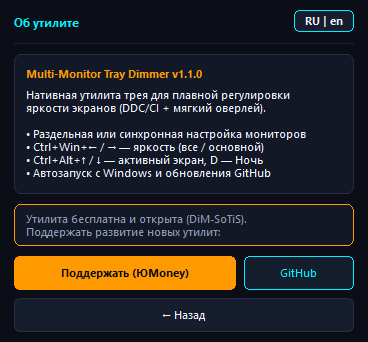
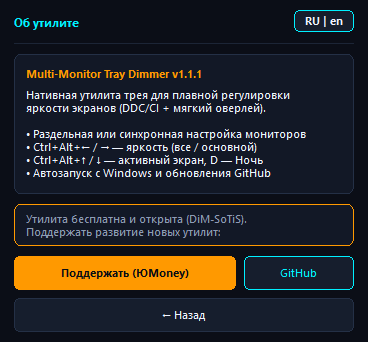
fix: switch sync/primary arrow hotkeys to Ctrl+Alt+Left/Right (v1.1.1)

Changed region(s): [[0.1495, 0.4094, 0.7174, 0.4678], [0.5082, 0.2047, 0.5679, 0.2339]]

diff --git a/src/i18n.rs b/src/i18n.rs
@@ -221,9 +221,9 @@ pub fn all_monitors_card_label(lang: Lang, count: usize) -> String {
 
 pub fn toast_sync(lang: Lang, enabled: bool) -> (&'static str, &'static str) {
     match (lang, enabled) {
-        (Lang::Ru, true) => ("Синхронизация", "Включена: общий ползунок и Ctrl+Win+←/→"),
+        (Lang::Ru, true) => ("Синхронизация", "Включена: общий ползунок и Ctrl+Alt+←/→"),
         (Lang::Ru, false) => ("Синхронизация", "Отключена: каждый монитор отдельно"),
-        (Lang::En, true) => ("Sync", "Enabled: unified slider & Ctrl+Win+←/→"),
+        (Lang::En, true) => ("Sync", "Enabled: unified slider & Ctrl+Alt+←/→"),
         (Lang::En, false) => ("Sync", "Disabled: per-monitor control"),
     }
 }
@@ -266,7 +266,7 @@ pub fn about_features(lang: Lang) -> &'static str {
             "Нативная утилита трея для плавной регулировки\n",
             "яркости экранов (DDC/CI + мягкий оверлей).\n\n",
             "• Раздельная или синхронная настройка мониторов\n",
-            "• Ctrl+Win+← / → — яркость (все / основной)\n",
+            "• Ctrl+Alt+← / → — яркость (все / основной)\n",
             "• Ctrl+Alt+↑ / ↓ — активный экран, D — Ночь\n",
             "• Автозапуск с Windows и обновления GitHub"
         ),
@@ -274,7 +274,7 @@ pub fn about_features(lang: Lang) -> &'static str {
             "Lightweight native tray utility for smooth\n",
             "multi-monitor dimming (DDC/CI + soft overlay).\n\n",
             "• Per-display or synced brightness control\n",
-            "• Ctrl+Win+← / → — brightness (all / primary)\n",
+            "• Ctrl+Alt+← / → — brightness (all / primary)\n",
             "• Ctrl+Alt+↑ / ↓ — active screen, D — Night\n",
             "• Windows autostart & GitHub auto-updates"
         ),

diff --git a/src/tray.rs b/src/tray.rs
@@ -56,7 +56,6 @@ const HOTKEY_SYNC_DOWN: usize = 4;
 const HOTKEY_SYNC_UP: usize = 5;
 const MOD_ALT: u32 = 0x0001;
 const MOD_CONTROL: u32 = 0x0002;
-const MOD_WIN: u32 = 0x0008;
 const MOD_NOREPEAT: u32 = 0x4000;
 const VK_LEFT: u32 = 0x25;
 const VK_UP: u32 = 0x26;
@@ -483,6 +482,9 @@ impl AppState {
             let cur = *self.config.levels.get(&m.id).unwrap_or(&DEFAULT_BRIGHTNESS);
             let next = step_brightness(cur, delta);
             self.set_monitor_level(idx, next, true, true);
+            unsafe {
+                InvalidateRect(self.flyout_hwnd, null(), 0);
+            }
         }
     }
 
@@ -1214,8 +1216,8 @@ pub fn run_app() {
         RegisterHotKey(main_hwnd, HOTKEY_BRIGHT_UP as i32, MOD_CONTROL | MOD_ALT | MOD_NOREPEAT, VK_UP);
         RegisterHotKey(main_hwnd, HOTKEY_BRIGHT_DOWN as i32, MOD_CONTROL | MOD_ALT | MOD_NOREPEAT, VK_DOWN);
         RegisterHotKey(main_hwnd, HOTKEY_NIGHT_TOGGLE as i32, MOD_CONTROL | MOD_ALT | MOD_NOREPEAT, VK_D);
-        RegisterHotKey(main_hwnd, HOTKEY_SYNC_DOWN as i32, MOD_CONTROL | MOD_WIN | MOD_NOREPEAT, VK_LEFT);
-        RegisterHotKey(main_hwnd, HOTKEY_SYNC_UP as i32, MOD_CONTROL | MOD_WIN | MOD_NOREPEAT, VK_RIGHT);
+        RegisterHotKey(main_hwnd, HOTKEY_SYNC_DOWN as i32, MOD_CONTROL | MOD_ALT | MOD_NOREPEAT, VK_LEFT);
+        RegisterHotKey(main_hwnd, HOTKEY_SYNC_UP as i32, MOD_CONTROL | MOD_ALT | MOD_NOREPEAT, VK_RIGHT);
 
         let icon = create_tray_icon();
         let mut tip = [0u16; 128];

diff --git a/README.md b/README.md
@@ -4,7 +4,7 @@
 >
 > *Lightweight native Windows system-tray utility (Rust, zero runtime dependencies) to adjust brightness & dimming per monitor or in sync via DDC/CI + smooth overlay, Cosmic Glass HUD flyout, and global hotkeys.*
 
-## Скриншоты / Screenshots (v1.1.0)
+## Скриншоты / Screenshots (v1.1.1)
 
 | Панель управления (Cosmic Glass HUD) | Об утилите / About & Donate |
 | :---: | :---: |
@@ -17,12 +17,12 @@
 
 Просто скачайте `multi-monitor-tray-dimmer.exe` и запустите — установка не требуется (portable).
 
-## Возможности / Features (v1.1.0)
+## Возможности / Features (v1.1.1)
 - **Панель Cosmic Glass HUD в трее:** плавные ползунки яркости (`20%–100%`) для каждого монитора с системной нумерацией Windows (`Монитор 1 (Основной)`, `Монитор 2`, …).
 - **Синхронизация экранов:** галочка «Синхронизация всех экранов» объединяет ползунки в один общий регулятор; при выключении каждый монитор настраивается независимо.
 - **Гибридное затемнение:** аппаратный **DDC/CI** (где поддерживается) + плавный некликабельный оверлей затемнения (работает на любом мониторе, даже ниже аппаратного минимума).
 - **Глобальные хоткеи:**
-  - `Ctrl + Win + ← / →` — уменьшить / увеличить яркость всех мониторов (при включённой синхронизации) или основного монитора (при выключенной).
+  - `Ctrl + Alt + ← / →` — уменьшить / увеличить яркость всех мониторов (при включённой синхронизации) или основного монитора (при выключенной).
   - `Ctrl + Alt + ↑ / ↓` — повысить / понизить яркость активного монитора на `±10%`.
   - `Ctrl + Alt + D` — быстрый «Ночной режим» (`40%` ↔ `100%`).
 - **Переключение языка `RU | EN`** с автоопределением языка Windows.
